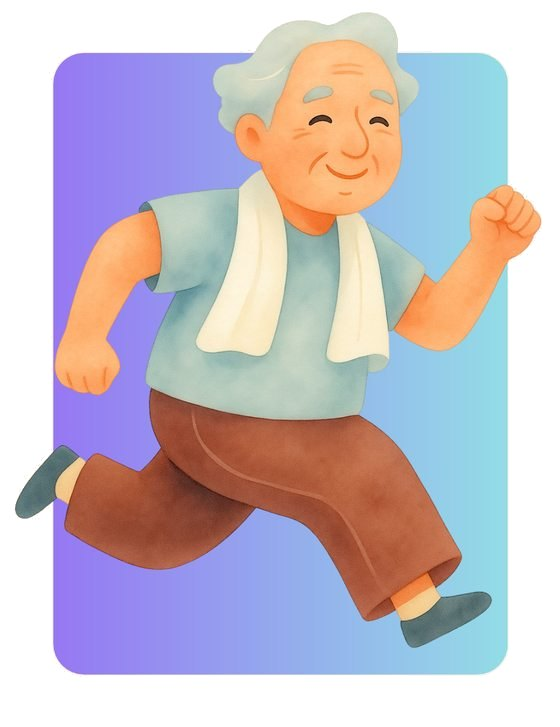
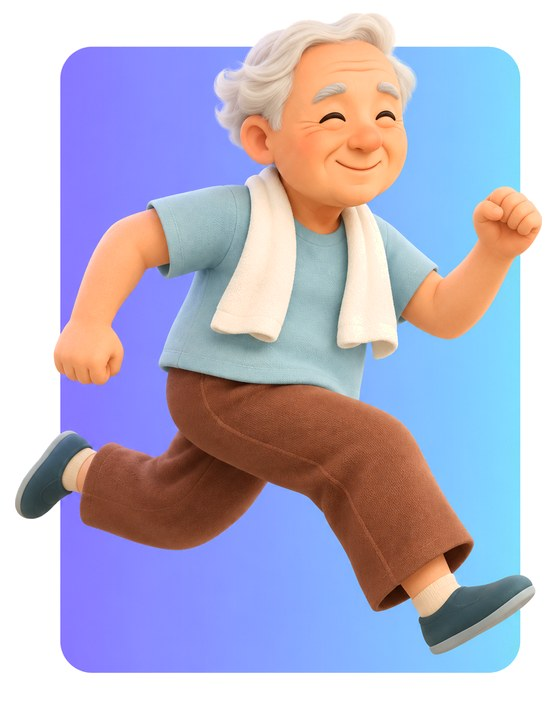
Nuova immagine per CFS 1 (stessa misura della precedente)
Claude-Session: https://claude.ai/code/session_019nCoAsNpip8ZimGigB4jne

diff --git a/index.html b/index.html
@@ -490,7 +490,7 @@ function vCategoria(id, fromQuiz){
   else path = `${c.id === 9 ? `<p class="small">La classificazione è basata sulla prognosi di malattia e non sul livello di dipendenza funzionale.</p>` : ""}<p class="lbl">Percorso</p><div>${pathC()}</div>`;
   return { bar: fromQuiz ? "Risultato" : "Scheda", act: fromQuiz ? ["Ricomincia", () => go("cfs-1")] : null,
     html: head(c.en, `CFS ${c.id} · ${c.it}`, c.group) +
-      `<div class="pic"><img src="img/cfs-${c.id}.jpg" width="560" height="${c.h}" alt="${c.en}"></div><p class="note">${c.desc}</p>` + path };
+      `<div class="pic"><img src="img/cfs-${c.id}.jpg?v=2" width="560" height="${c.h}" alt="${c.en}"></div><p class="note">${c.desc}</p>` + path };
 }
 
 /* ---------- percorsi ---------- */
